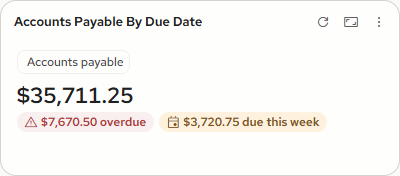
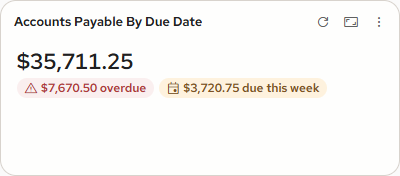
Accounts Payable By Due Date: standard pop-up footer with Open in Accounts Payable; Glance chip removed (owner, 9 Oct)
The invoice pop-up is the widget's own card registered through WIDGETS, with the
dashboard's standard footer (Open in Accounts Payable, Close) instead of the shell's
Got it card. The Glance loses its Accounts payable scope chip. Driver 85 assertions;
suite 3503 green; Glance and pop-up shots retaken.

Changed region(s): [[0.03, 0.4261, 0.84, 0.5966], [0.06, 0.625, 0.84, 0.767], [0.03, 0.2841, 0.33, 0.4261]]

diff --git a/index.html b/index.html
@@ -12773,7 +12773,6 @@ function apBadge(w){var od=apOverdueTotal(w);if(od>0){var n=apOverdueCount(w);re
     if(w.state==="empty"||!apData(w).length){var ec=EMPTY_COPY.payables;return '<div class="state" data-kind="empty">'+ICON("task_alt")+'<div class="state-title">'+ec.title+'</div></div>';}
     var tot=apTotalDue(w);
     return '<div class="kpi-row"><div class="kpi-num">'+
-      '<span class="scope-chip" style="cursor:default"><span class="sc-nm">Accounts payable</span></span>'+
       '<div class="metric-value">'+apMoney(tot)+'</div>'+
       '<div class="gl-sub">'+apBadge(w)+apWeekPill(w)+'</div>'+
       '</div></div>';}
@@ -12813,12 +12812,23 @@ function apBadge(w){var od=apOverdueTotal(w);if(od>0){var n=apOverdueCount(w);re
   /* ---- loading: only on a data-fetch (filter change), never on sort -- */
   function apLoad(w){w.aploading=true;clearTimeout(timers["ap-"+w.id]);timers["ap-"+w.id]=setTimeout(function(){w.aploading=false;w.updated="just now";render();},800);}
 
+  /* ---- invoice pop-up: the dashboard's standard card (title, facts, Open in ... and Close) ---- */
+  function apInvoiceModalHTML(){var m=modal;
+    function fact(k,v){return '<div class="pur-po-fact"><span class="pur-po-fact-k">'+k+'</span><span class="pur-po-fact-v">'+v+'</span></div>';}
+    var facts='<div class="pur-po-facts">'+fact("Vendor",apEsc(m.vendor))+fact("Invoice #",apEsc(m.inv))+fact("Due date",apFmtLong(m.dueiso))+fact("Status",apDaysLabel(m.dueiso))+fact("Amount",apEsc(m.amt))+'</div>';
+    return '<div class="modal-backdrop" data-action="modal-close"><div class="modal" data-action="stop" role="dialog" aria-modal="true" aria-label="Invoice '+apEsc(m.inv)+'">'+
+      '<div class="modal-h"><span class="modal-title">Invoice '+apEsc(m.inv)+'</span><button class="iconbtn" data-action="modal-close" aria-label="Close">'+ICON("close")+'</button></div>'+
+      '<div class="modal-b">'+facts+'</div>'+
+      '<div class="modal-f"><button class="btn naked sm" data-action="ap-openbill" data-inv="'+apEsc(m.inv)+'">'+ICON("open_in_new")+'Open in Accounts Payable</button><button class="btn primary sm" data-action="modal-close">Close</button></div>'+
+    '</div></div>';}
+
   /* ---- 3. CLICK HANDLER (branch: a starts with "ap-") ---------------- */
   function apHandleClick(a,id,t){
     if(a==="ap-due"){apDueQuery="";pop=(pop&&pop.type==="ap-due"&&pop.id===id)?null:{type:"ap-due",id:id};render();return true;}
     if(a==="ap-set-due"){var wad=find(id);if(wad){var nv=t.getAttribute("data-due"),cur=apSel(wad);if(nv!==cur){wad.apDue=nv;apLoad(wad);}}pop=null;render();return true;}
     if(a==="ap-sort"){var was=find(id),k=t.getAttribute("data-k");if(was){var cs=(was.apsort||"due-asc").split("-");was.apsort=(cs[0]===k)?(k+"-"+(cs[1]==="asc"?"desc":"asc")):(k+"-"+((k==="vendor"||k==="inv"||k==="due")?"asc":"desc"));}render();return true;}
-    if(a==="ap-open"){var _inv=t.getAttribute("data-inv"),_vn=t.getAttribute("data-vendor"),_iso=t.getAttribute("data-dueiso"),_am=t.getAttribute("data-amt");showModal("Invoice "+_inv,'<div class="pur-po-facts"><div class="pur-po-fact"><span class="pur-po-fact-k">Vendor</span><span class="pur-po-fact-v">'+_vn+'</span></div><div class="pur-po-fact"><span class="pur-po-fact-k">Invoice #</span><span class="pur-po-fact-v">'+_inv+'</span></div><div class="pur-po-fact"><span class="pur-po-fact-k">Due date</span><span class="pur-po-fact-v">'+apFmtLong(_iso)+'</span></div><div class="pur-po-fact"><span class="pur-po-fact-k">Status</span><span class="pur-po-fact-v">'+apDaysLabel(_iso)+'</span></div><div class="pur-po-fact"><span class="pur-po-fact-k">Amount</span><span class="pur-po-fact-v">'+_am+'</span></div></div>');return true;}
+    if(a==="ap-open"){modal={type:"apbill",inv:t.getAttribute("data-inv"),vendor:t.getAttribute("data-vendor"),dueiso:t.getAttribute("data-dueiso"),amt:t.getAttribute("data-amt")};modalMounted=false;pop=null;render();return true;}
+    if(a==="ap-openbill"){setStatus("Opens Accounts Payable, Invoices, for invoice "+t.getAttribute("data-inv")+", the full bill with its lines and attachments. No dashboard route to it exists yet.");return true;}
 
 
     if(a==="ap-pick-date"){var wap=find(id);if(wap){var iso=t.getAttribute("data-iso"),cur=apSel(wap);if(iso!==cur){wap.apDue=iso;apLoad(wap);}}pop=null;render();return true;}
@@ -13121,7 +13131,7 @@ function apBadge(w){var od=apOverdueTotal(w);if(od>0){var n=apOverdueCount(w);re
 
 
   /* Registered so the shell (and the review viewer) find her block through WIDGETS; her click, pop and trigger hooks stay as they are. */
-  WIDGETS.register("payables",{content:apContent});
+  WIDGETS.register("payables",{content:apContent,modals:{apbill:apInvoiceModalHTML}});
 
 /* ===== W18 Financial KPI V2 ===== */
 

diff --git a/_tools/w16-payables.driver.js b/_tools/w16-payables.driver.js
@@ -19,7 +19,7 @@ const S = shell.script, raw = shell.html;
 ["apFContent(", 'kind:"payables-mb"', "data-apf", "APF_", "apf-root"].forEach(function (n) { A.absent(S, n, "nothing of ours survives: " + n); });
 A.absent(shell.css, ".apf-", "no .apf- rule survives");
 ["function apContent(", "function apHandleClick(", 'a==="ap-due"', 'a==="ap-open"', "function apPopContent("].forEach(function (n) { A.contains(S, n, "her block holds " + n); });
-A.contains(S, 'WIDGETS.register("payables",{content:apContent});', "her content is registered under kind payables");
+A.contains(S, 'WIDGETS.register("payables",{content:apContent,modals:{apbill:apInvoiceModalHTML}});', "her content is registered under kind payables, with our invoice pop-up");
 A.absent(S.replace(/\/\*[\s\S]*?\*\//g, ""), '    if(w.kind==="payables")return apContent(w);', "the old contentHTML hook is gone (her banner comment still quotes it)");
 A.absent(S, 'if(w.kind==="payables-mb")', "no payables-mb branch anywhere");
 A.eq((raw.match(/title:"[^"]*",kind:"payables",/g) || []).length, 3, "exactly three registry rows (her banner comment also says kind:payables)");
@@ -58,10 +58,15 @@ A.contains(e, 'class="ap-sbadge ap-sbadge-over"', "Explore: overdue rows carry h
 A.contains(e, '<span class="ap-c-inv">', "invoice number is plain text (no code-copy helper in this shell)"); A.absent(e, "codecopy", "no codecopy markup");
 A.contains(d, '<div class="dep-col-h">Top vendors owed</div>', "Detail: the right column is Top vendors owed"); A.absent(d, "ap-vendor-drill", "vendor rows do not drill (owner: our pop-up only, not hers)"); A.absent(d, "ap-sum-click", "no drill styling on vendor rows");
 A.absent(S, "function apBillModalHTML(", "her invoice pop-up is not ported"); A.absent(S, "function apVendorModalHTML(", "her vendor pop-up is not ported"); A.absent(S, "AP_AVIDPAY", "no AvidPay flag");
-A.contains(S, 'if(a==="ap-open"){var _inv=t.getAttribute("data-inv")', "our invoice pop-up handler stays"); A.contains(S, 'showModal("Invoice "+_inv,', "and opens through the shell's showModal");
-["ap-vendor-drill", "ap-bill-close", "ap-openbill", "ap-schedule-pay"].forEach(function (act) { A.absent(S, 'a==="' + act + '"', "no handler for " + act); });
+A.contains(S, 'if(a==="ap-open"){modal={type:"apbill",', "a row opens our invoice pop-up");
+EX.setModal({ type: "apbill", inv: "INV-0003", vendor: "Staples", dueiso: "2026-07-10", amt: "$5,555.00" }); const bm = EX.WIDGETS.modal(); EX.setModal(null);
+A.ok(bm && bm.length > 300, "the invoice pop-up renders through the registry"); A.contains(bm, '<span class="modal-title">Invoice INV-0003</span>', "titled with the invoice number");
+["Vendor", "Invoice #", "Due date", "Status", "Amount"].forEach(function (k) { A.contains(bm, '<span class="pur-po-fact-k">' + k + "</span>", "fact " + k); }); A.contains(bm, ">Jul 10, 2026<", "due date in full"); A.contains(bm, ">Overdue by 13 days<", "status in words");
+A.contains(bm, '<div class="modal-f"><button class="btn naked sm" data-action="ap-openbill" data-inv="INV-0003">', "footer: Open in Accounts Payable on the left, the dashboard's standard (owner, 9 Oct)"); A.contains(bm, 'Open in Accounts Payable</button><button class="btn primary sm" data-action="modal-close">Close</button></div>', "and the standard Close on the right"); A.absent(bm, "Got it", "no Got it");
+A.contains(S, 'if(a==="ap-openbill"){setStatus(', "Open in Accounts Payable reports the missing route for now");
+["ap-vendor-drill", "ap-bill-close", "ap-schedule-pay"].forEach(function (act) { A.absent(S, 'a==="' + act + '"', "no handler for " + act); });
 const kpi = rows.filter(function (w) { return w.size === "kpi"; })[0], g = EX.contentHTML(kpi);
-A.contains(g, '<span class="sc-nm">Accounts payable</span>', "Glance stays ours: scope chip, total, overdue and this-week pills (owner: the Glance is not treated the same)"); A.absent(g, "kpi-eyebrow", "no eyebrow at Glance"); A.absent(g, "ap-tile", "no tiles at Glance");
+A.absent(g, "scope-chip", "Glance has no Accounts payable chip (owner, 9 Oct)"); A.contains(g, '<div class="metric-value">', "Glance stays ours: the total with the overdue and this-week pills"); A.contains(g, "ap-pill warn", "overdue pill"); A.contains(g, "ap-pill ap-week", "due this week pill"); A.absent(g, "kpi-eyebrow", "no eyebrow at Glance"); A.absent(g, "ap-tile", "no tiles at Glance");
 A.contains(e, 'data-acct="', "rows carry her search text so the shell's header search filters them");
 EX.setPop({ type: "ap-due", id: wide.id });
 A.eq(EX.triggerSelector(), '[data-action="ap-due"][data-id="' + wide.id + '"]', "trigger selector for her pop-up");

diff --git a/docs/decisions/W16.md b/docs/decisions/W16.md
@@ -21,3 +21,5 @@ Owner: "copy Jo Phase 2 as it currently works 1 to 1. What should not be treated
 - Handover section and shots: V2 shots retaken; the prose is left for after the owner's review.
 - **Header (owner, same day, from the screenshot): "remove the total here place the old filter for time there. the 3 options below do work as time filter but I want old filter to work too."** The Total due figure is gone from the Explore and Detail header (the All dates tile carries it); the old due-date chip sits where it was, left of her search, and it and the tiles drive the one filter, so picking a tile relabels the chip and picking a chip option selects the matching tile. Eyebrow rules removed. Driver 67; suite 3485 green; shots 02 and 03 retaken.
 - **Chip menu (owner, same day): "you can remove the 3 aging bands since they are in the function below."** The By aging group (Overdue, Due this month, Due later) is gone from the due-date chip menu; the tiles are the bands. The menu is All due dates plus every specific due date, earliest first, searchable when there are many. Driver 71; suite 3489 green.
+- **Invoice pop-up footer (owner, same day): "got it not the standard across the all widgets, please use the standard that all widgets uses. Then also add a redirect button next to it so that the user can be redirected vendor invoice."** The pop-up is now the widget's own card (apInvoiceModalHTML, registered as modal type apbill) with the dashboard's standard footer: Open in Accounts Payable (naked, left; reports the missing dashboard route for now) and Close (primary, right). Same facts grid.
+- **Glance (owner, same day, from the screenshot): the "Accounts payable" scope chip is removed.** The Glance is the total with the overdue and due-this-week pills. Driver 85; suite 3503 green; shots 01 and 04 retaken.
